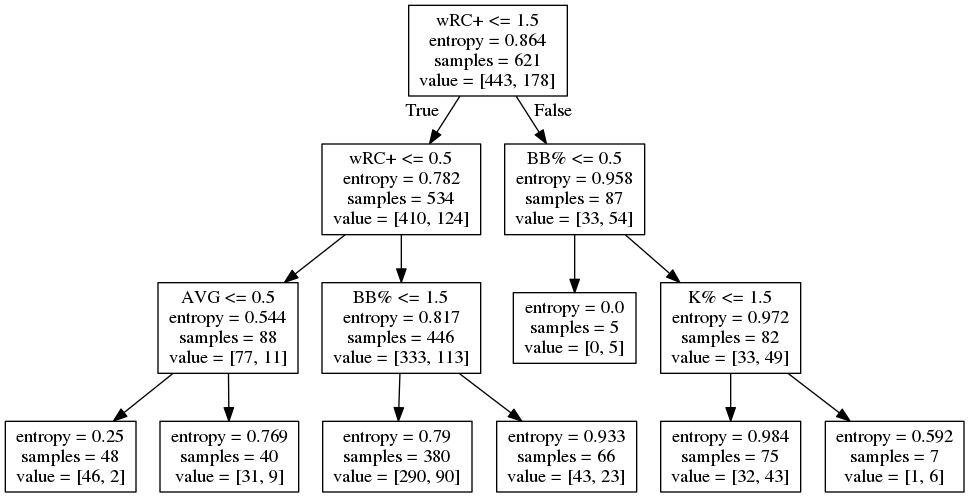
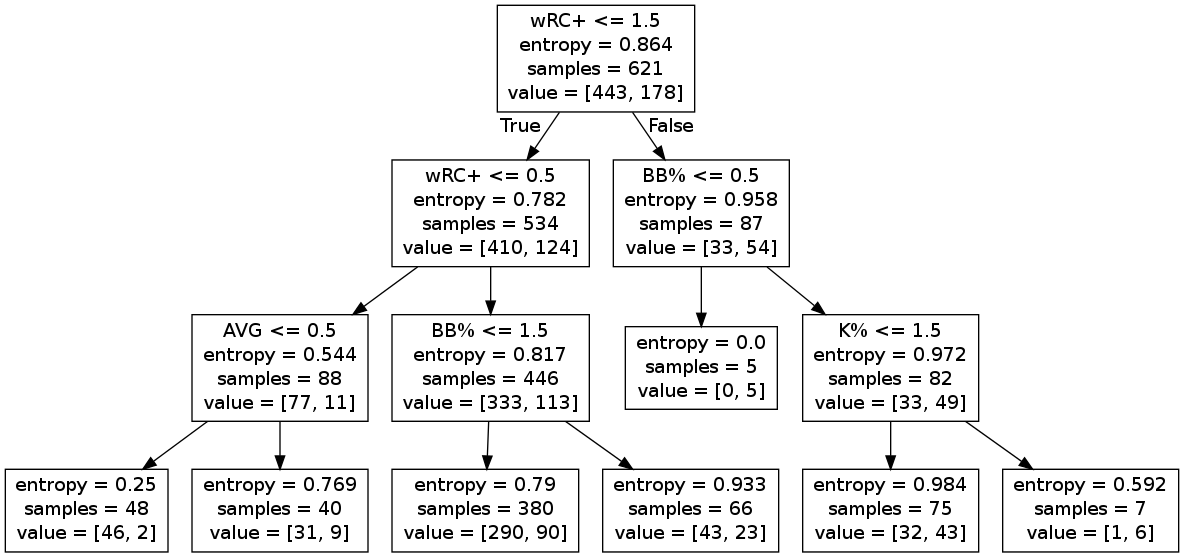
Updated mlset.py to start giving results

Changed region(s): [[0.0, 0.5433, 1.0, 0.996], [0.3096, 0.0, 0.6811, 0.5433], [0.1548, 0.5131, 0.4954, 0.7847]]

diff --git a/mlset.py b/mlset.py
@@ -1,5 +1,13 @@
 #!/usr/bin/python
 
+from sklearn.tree import DecisionTreeClassifier, export_graphviz
+
+
+from sklearn.model_selection import train_test_split
+from sklearn.metrics import accuracy_score
+from sklearn.metrics import precision_score
+from sklearn.metrics import recall_score
+from sklearn.metrics import f1_score
 
 import os
 import pydot
@@ -55,14 +63,49 @@ if __name__ == '__main__':
 					'SLG','OPS',
 					'BABIP','wRC+'])
     ord_names = list(ordinal_overlap['Name'])
+    
+    # lets keepy only columns from A for simplicity
+    for column in ordinal_overlap: 
+        if '_y' in column:
+            del ordinal_overlap[column]
+        elif column != 'Name':
+            ordinal_overlap = ordinal_overlap.rename(columns={column : column[:-2]})
+    del ordinal_overlap['WAR/PA']
+    
     for index, row in l1_ordinal.iterrows():
 	if row['Name'] in ord_names:
 	    continue
 	else:
 	    ll_ordinal.loc[len(ll_ordinal)] = row
-
-    print numeric_overlap
-    print ll_numeric
-
-	
     
+
+    ll_ordinal['success'] = len(ll_ordinal) * [0]
+    ordinal_overlap['success'] = len(ordinal_overlap) * [1]
+
+    combined = ll_ordinal 
+    for index, row in ordinal_overlap.iterrows():
+        combined = combined.append(row)
+    
+    features = list(combined.columns[2:-1])
+    target = list(combined.columns[-1:])[0]
+
+
+    X_train, X_test, y_train, y_test = train_test_split(combined[features], combined[target], random_state=1)
+
+    dt_entropy = DecisionTreeClassifier(criterion='entropy', max_depth=3)    
+    dt_entropy = dt_entropy.fit(X_train, y_train)
+
+    # output a PNG of the decision tree
+    dotfile = 'ml_results/' + sys.argv[1] + '_entropy.dot'
+    png     = 'ml_results/' + sys.argv[1] + '_entropy.png'
+
+    export_graphviz(dt_entropy, out_file=dotfile, feature_names=features)
+    (tree, ) = pydot.graph_from_dot_file(dotfile)
+    tree.write_png(png)
+    
+    # test
+    y_predict = dt_entropy.predict(X_test)
+    
+    print "Entropy " + str(accuracy_score(y_test, y_predict))[:5] + ' ' + str(precision_score(y_test, y_predict))[:5] + ' ' + str(recall_score(y_test, y_predict))[:5] + ' ' + str(f1_score(y_test, y_predict))[:5]
+
+

diff --git a/analyze.py b/analyze.py
@@ -1,6 +1,5 @@
 #!/usr/bin/python
 
-
 import os
 import pydot
 import sys
